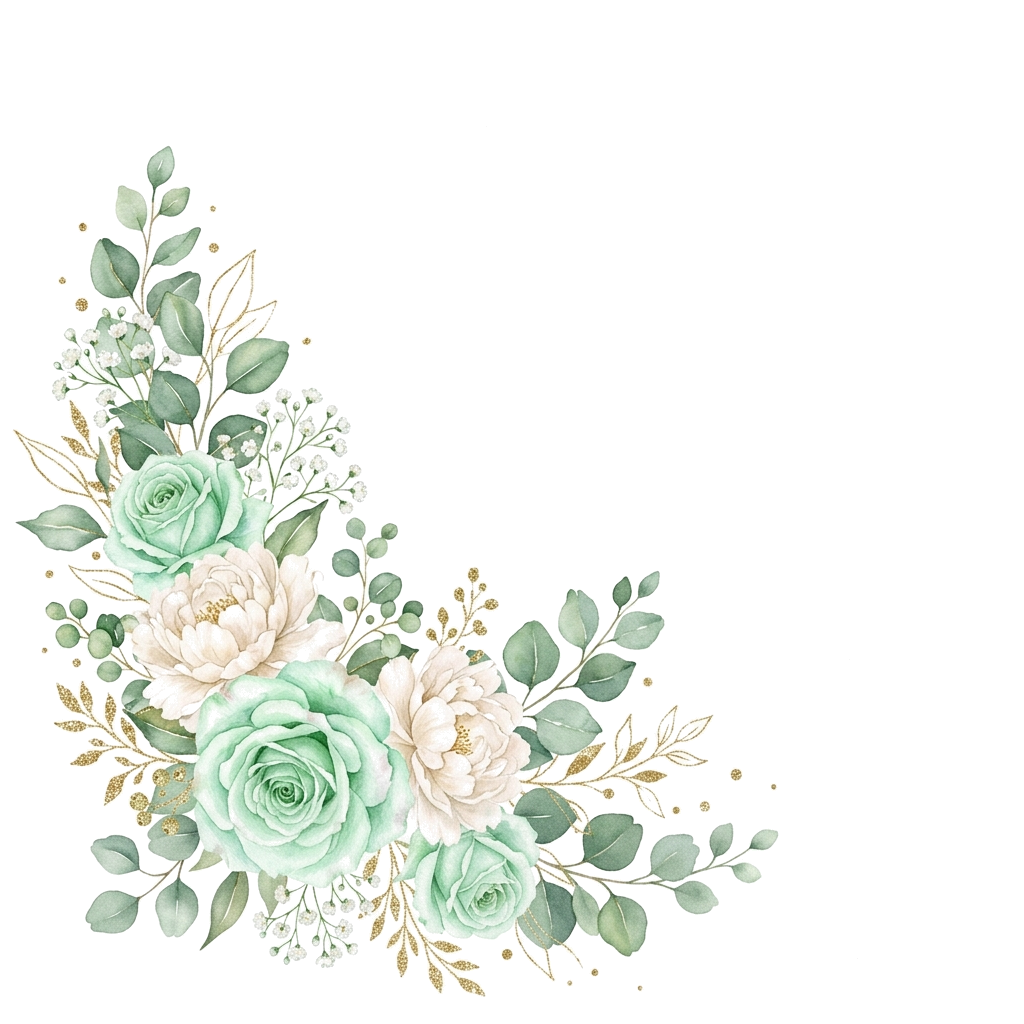
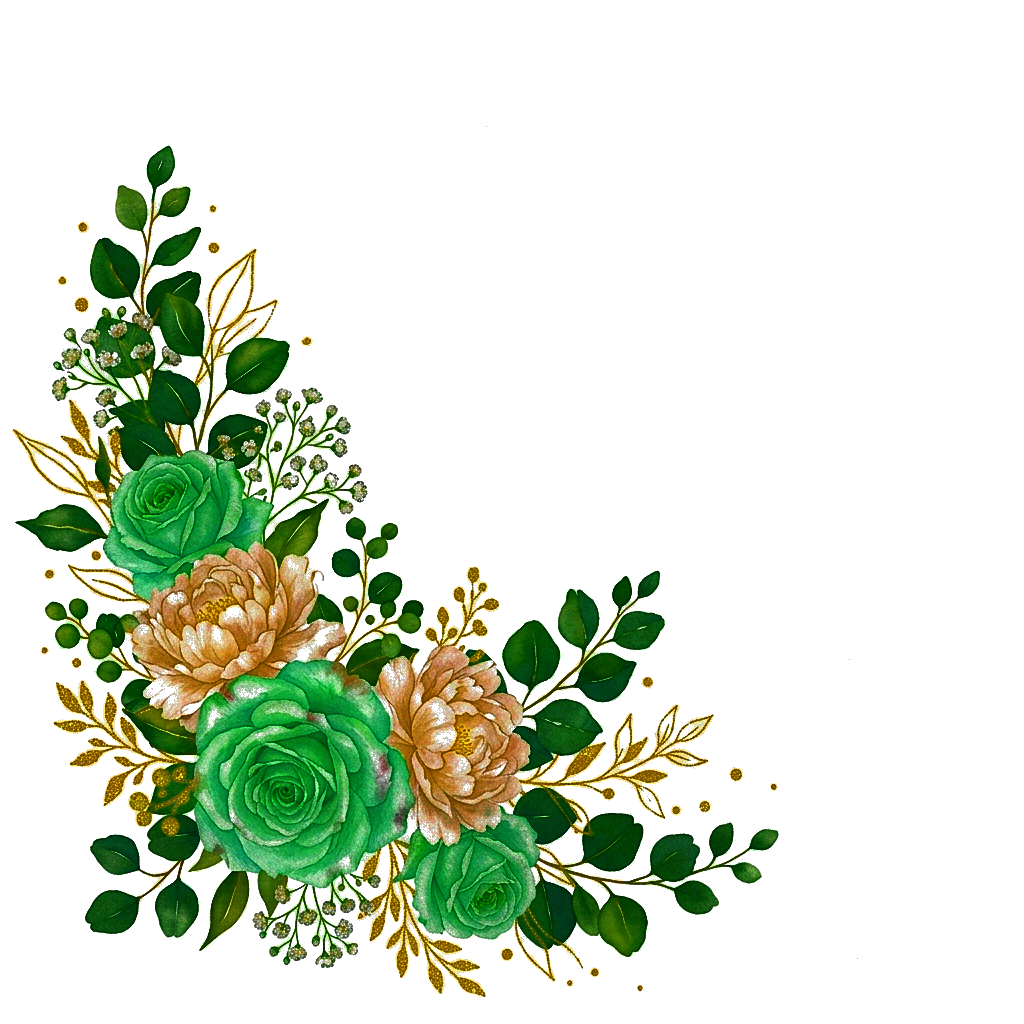
Add Parisian dusk blurred background, remove top-left flowers, and boost top-right floral opacity

Changed region(s): [[0.0, 0.125, 0.7812, 0.9688]]

diff --git a/dianalucero/style.css b/dianalucero/style.css
@@ -118,9 +118,15 @@ html.site-entered {
   -webkit-overflow-scrolling: touch;
 }
 
-/* body must NOT independently scroll — lavender & silver background behind opened invitation */
+/* body must NOT independently scroll — moody Parisian twilight background matching celebrant image */
 body.site-entered {
-  background: var(--bg-page-gradient) !important;
+  background-color: #17151e !important;
+  background-image:
+    radial-gradient(ellipse at 50% 20%, rgba(45, 39, 52, 0.55) 0%, rgba(14, 13, 18, 0.88) 100%),
+    url('photos/paris-bg.jpg?v=1') !important;
+  background-size: cover !important;
+  background-position: center top !important;
+  background-repeat: no-repeat !important;
   background-attachment: fixed !important;
   overflow-x: clip !important;
   overflow-y: visible !important;
@@ -496,10 +502,10 @@ body.site-entered .lang-control-bar {
   inset: -8px;
   border-radius: 36px;
   background:
-    radial-gradient(ellipse at 50% 50%, rgba(212, 175, 55, 0.38) 0%, rgba(229, 213, 170, 0.22) 55%, transparent 80%),
-    linear-gradient(180deg, rgba(212, 175, 55, 0.25) 0%, rgba(163, 29, 36, 0.12) 50%, rgba(212, 175, 55, 0.22) 100%);
+    radial-gradient(ellipse at 50% 50%, rgba(212, 175, 55, 0.45) 0%, rgba(229, 213, 170, 0.28) 55%, transparent 80%),
+    linear-gradient(180deg, rgba(212, 175, 55, 0.35) 0%, rgba(92, 140, 111, 0.22) 50%, rgba(212, 175, 55, 0.30) 100%);
   filter: blur(18px);
-  opacity: 0.7;
+  opacity: 0.85;
   pointer-events: none;
   z-index: 0;
 }
@@ -553,16 +559,9 @@ body.site-entered .lang-control-bar {
   filter: none;
 }
 
-.flower-card-top-left {
-  top: -42px;
-  left: -40px;
-  width: 220px;
-  height: 220px;
-  max-width: 48vw;
-  max-height: 48vw;
-  transform: none;
-  transform-origin: top left;
-  opacity: 1 !important;
+.flower-card-top-left,
+.feather-top-left {
+  display: none !important;
 }
 
 .flower-card-top-right {
@@ -575,6 +574,7 @@ body.site-entered .lang-control-bar {
   transform: none;
   transform-origin: top right;
   opacity: 1 !important;
+  filter: drop-shadow(0 4px 14px rgba(0, 0, 0, 0.45)) drop-shadow(0 1px 6px rgba(255, 255, 255, 0.30));
 }
 
 .flower-card-bottom-left {
@@ -2853,6 +2853,20 @@ body.site-entered .lang-control-bar {
 .footer-date {
   font-size: 0.8rem;
   letter-spacing: 0.08em;
+}
+
+body.site-entered .site-footer {
+  color: rgba(245, 240, 230, 0.72);
+}
+
+body.site-entered .footer-names {
+  color: #f7ecd5;
+  text-shadow: 0 1px 4px rgba(0, 0, 0, 0.5);
+}
+
+body.site-entered .footer-date,
+body.site-entered .site-footer p {
+  color: rgba(245, 240, 230, 0.65);
 }
 
 /* ═════════════════════════════════════════════════════════════════════

diff --git a/dianalucero/index.html b/dianalucero/index.html
@@ -272,13 +272,11 @@
     <!-- Luxury Corner Floral Sprays Overlapping the Invitation Corners -->
     <div class="invitation-floral-frame" aria-hidden="true">
       <div style="position:relative; width:100%; height:100%;">
-        <img src="photos/rose-corner-tl.png" alt=""
-          class="invitation-flower-spray flower-card-top-left" />
-        <img src="photos/rose-corner-tr.png" alt=""
+        <img src="photos/rose-corner-tr.png?v=2" alt=""
           class="invitation-flower-spray flower-card-top-right" />
-        <img src="photos/rose-corner-bl.png" alt=""
+        <img src="photos/rose-corner-bl.png?v=2" alt=""
           class="invitation-flower-spray flower-card-bottom-left" />
-        <img src="photos/rose-corner-br.png" alt=""
+        <img src="photos/rose-corner-br.png?v=2" alt=""
           class="invitation-flower-spray flower-card-bottom-right" />
       </div>
     </div>
@@ -299,11 +297,6 @@
           <img id="main-celebrant-img" src="photos/celebrant.png"
             alt="Diana A. Lucero" class="celebrant-photo celebrant-hero-photo" style="object-position: center 25%;" />
         </div>
-      </div>
-
-      <!-- Floral Corner Accent Sprays -->
-      <div class="hero-feather-frame" aria-hidden="true">
-        <img src="photos/rose-corner-tl.png" alt="" class="hero-feather-spray feather-top-left" />
       </div>
 
       <!-- Invitation Text & Phrasing -->
